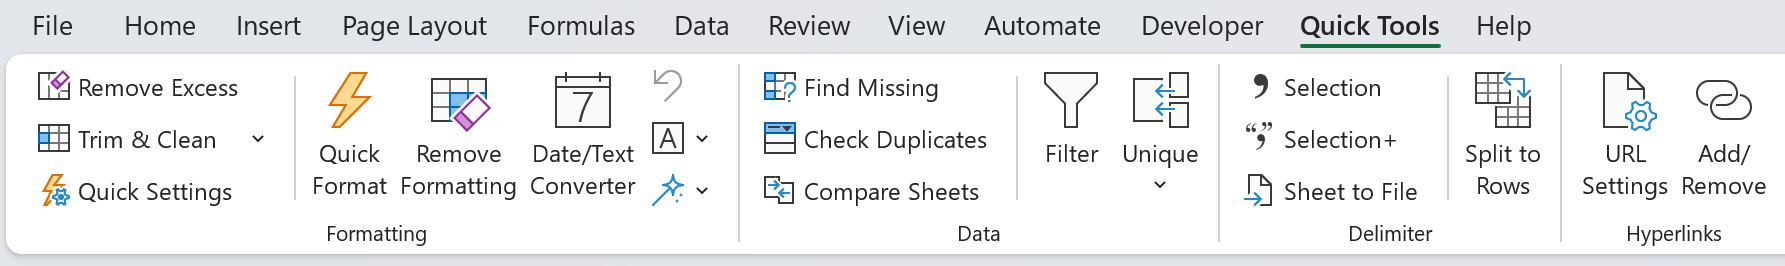
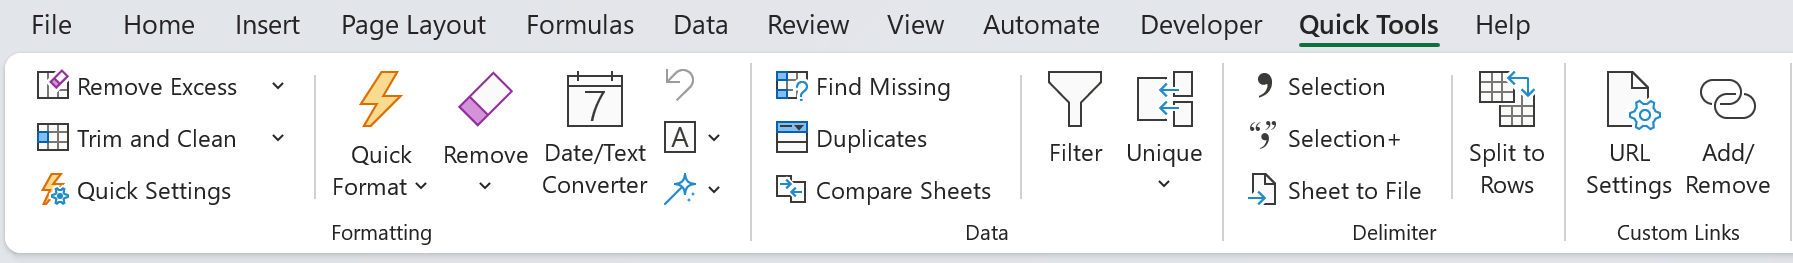
Clear Selection for Unique and Split to Rows. Update to MainIcons.png

diff --git a/XLQuickTools/Ribbon1.Designer.cs b/XLQuickTools/Ribbon1.Designer.cs
@@ -36,12 +36,6 @@
         {
             this.XLQuickTools_Tab = this.Factory.CreateRibbonTab();
             this.Group_Formatting = this.Factory.CreateRibbonGroup();
-            this.Separator_Formatting = this.Factory.CreateRibbonSeparator();
-            this.Group_Data = this.Factory.CreateRibbonGroup();
-            this.Separator_Data = this.Factory.CreateRibbonSeparator();
-            this.Group_Delimiter = this.Factory.CreateRibbonGroup();
-            this.Separator_Delimiter = this.Factory.CreateRibbonSeparator();
-            this.Group_Hyperlinks = this.Factory.CreateRibbonGroup();
             this.BtnRemoveExcess = this.Factory.CreateRibbonSplitButton();
             this.BtnRemoveExcessWS = this.Factory.CreateRibbonButton();
             this.BtnRemoveExcessWB = this.Factory.CreateRibbonButton();
@@ -50,6 +44,7 @@
             this.BtnTrimCleanWorksheet = this.Factory.CreateRibbonButton();
             this.BtnTrimCleanWorkbook = this.Factory.CreateRibbonButton();
             this.BtnQuickSettings = this.Factory.CreateRibbonButton();
+            this.Separator_Formatting = this.Factory.CreateRibbonSeparator();
             this.BtnQuickFormat = this.Factory.CreateRibbonSplitButton();
             this.BtnQuickFormatSub = this.Factory.CreateRibbonButton();
             this.BtnQuickFormatAll = this.Factory.CreateRibbonButton();
@@ -77,18 +72,23 @@
             this.BtnCopyFormatting = this.Factory.CreateRibbonButton();
             this.BtnDisplayLength = this.Factory.CreateRibbonButton();
             this.BtnResetColumn = this.Factory.CreateRibbonButton();
+            this.Group_Data = this.Factory.CreateRibbonGroup();
             this.BtnMissing = this.Factory.CreateRibbonButton();
             this.BtnDuplicates = this.Factory.CreateRibbonButton();
             this.BtnCompare = this.Factory.CreateRibbonButton();
+            this.Separator_Data = this.Factory.CreateRibbonSeparator();
             this.BtnFilter = this.Factory.CreateRibbonButton();
             this.UniqueMenu = this.Factory.CreateRibbonMenu();
             this.BtnUniqueCount = this.Factory.CreateRibbonButton();
             this.BtnUniqueClipboard = this.Factory.CreateRibbonButton();
             this.BtnCopyToSheets = this.Factory.CreateRibbonButton();
+            this.Group_Delimiter = this.Factory.CreateRibbonGroup();
             this.BtnCommaSelection = this.Factory.CreateRibbonButton();
             this.BtnDelimSelection = this.Factory.CreateRibbonButton();
             this.BtnSheetToFile = this.Factory.CreateRibbonButton();
+            this.Separator_Delimiter = this.Factory.CreateRibbonSeparator();
             this.BtnSplitToRows = this.Factory.CreateRibbonButton();
+            this.Group_Hyperlinks = this.Factory.CreateRibbonGroup();
             this.BtnHyperlinkSettings = this.Factory.CreateRibbonButton();
             this.BtnHyperlinks = this.Factory.CreateRibbonButton();
             this.XLQuickTools_Tab.SuspendLayout();
@@ -122,46 +122,6 @@
             this.Group_Formatting.Items.Add(this.AdditionalMenu);
             this.Group_Formatting.Label = "Formatting";
             this.Group_Formatting.Name = "Group_Formatting";
-            // 
-            // Separator_Formatting
-            // 
-            this.Separator_Formatting.Name = "Separator_Formatting";
-            // 
-            // Group_Data
-            // 
-            this.Group_Data.Items.Add(this.BtnMissing);
-            this.Group_Data.Items.Add(this.BtnDuplicates);
-            this.Group_Data.Items.Add(this.BtnCompare);
-            this.Group_Data.Items.Add(this.Separator_Data);
-            this.Group_Data.Items.Add(this.BtnFilter);
-            this.Group_Data.Items.Add(this.UniqueMenu);
-            this.Group_Data.Label = "Data";
-            this.Group_Data.Name = "Group_Data";
-            // 
-            // Separator_Data
-            // 
-            this.Separator_Data.Name = "Separator_Data";
-            // 
-            // Group_Delimiter
-            // 
-            this.Group_Delimiter.Items.Add(this.BtnCommaSelection);
-            this.Group_Delimiter.Items.Add(this.BtnDelimSelection);
-            this.Group_Delimiter.Items.Add(this.BtnSheetToFile);
-            this.Group_Delimiter.Items.Add(this.Separator_Delimiter);
-            this.Group_Delimiter.Items.Add(this.BtnSplitToRows);
-            this.Group_Delimiter.Label = "Delimiter";
-            this.Group_Delimiter.Name = "Group_Delimiter";
-            // 
-            // Separator_Delimiter
-            // 
-            this.Separator_Delimiter.Name = "Separator_Delimiter";
-            // 
-            // Group_Hyperlinks
-            // 
-            this.Group_Hyperlinks.Items.Add(this.BtnHyperlinkSettings);
-            this.Group_Hyperlinks.Items.Add(this.BtnHyperlinks);
-            this.Group_Hyperlinks.Label = "Custom Links";
-            this.Group_Hyperlinks.Name = "Group_Hyperlinks";
             // 
             // BtnRemoveExcess
             // 
@@ -240,6 +200,10 @@
             this.BtnQuickSettings.SuperTip = "Quick Format Settings\n\nSettings you want applied when using the \"Quick Format\" bu" +
     "tton.";
             this.BtnQuickSettings.Click += new Microsoft.Office.Tools.Ribbon.RibbonControlEventHandler(this.BtnQuickSettings_Click);
+            // 
+            // Separator_Formatting
+            // 
+            this.Separator_Formatting.Name = "Separator_Formatting";
             // 
             // BtnQuickFormat
             // 
@@ -510,6 +474,17 @@
             this.BtnResetColumn.SuperTip = "Reset the selected column. Numbers stored as text will be converted to numbers.";
             this.BtnResetColumn.Click += new Microsoft.Office.Tools.Ribbon.RibbonControlEventHandler(this.BtnResetColumn_Click);
             // 
+            // Group_Data
+            // 
+            this.Group_Data.Items.Add(this.BtnMissing);
+            this.Group_Data.Items.Add(this.BtnDuplicates);
+            this.Group_Data.Items.Add(this.BtnCompare);
+            this.Group_Data.Items.Add(this.Separator_Data);
+            this.Group_Data.Items.Add(this.BtnFilter);
+            this.Group_Data.Items.Add(this.UniqueMenu);
+            this.Group_Data.Label = "Data";
+            this.Group_Data.Name = "Group_Data";
+            // 
             // BtnMissing
             // 
             this.BtnMissing.Label = "Find Missing";
@@ -522,7 +497,7 @@
             // 
             // BtnDuplicates
             // 
-            this.BtnDuplicates.Label = "Check Duplicates";
+            this.BtnDuplicates.Label = "Duplicates";
             this.BtnDuplicates.Name = "BtnDuplicates";
             this.BtnDuplicates.OfficeImageId = "PivotPlusMinusFieldHeadersShowHide";
             this.BtnDuplicates.ShowImage = true;
@@ -538,6 +513,10 @@
             this.BtnCompare.ShowImage = true;
             this.BtnCompare.SuperTip = "Compare Worksheets\n\nToggle on/off the task pane to compare two worksheets.";
             this.BtnCompare.Click += new Microsoft.Office.Tools.Ribbon.RibbonControlEventHandler(this.BtnCompare_Click);
+            // 
+            // Separator_Data
+            // 
+            this.Separator_Data.Name = "Separator_Data";
             // 
             // BtnFilter
             // 
@@ -589,6 +568,16 @@
     "e.";
             this.BtnCopyToSheets.Click += new Microsoft.Office.Tools.Ribbon.RibbonControlEventHandler(this.BtnCopyToSheets_Click);
             // 
+            // Group_Delimiter
+            // 
+            this.Group_Delimiter.Items.Add(this.BtnCommaSelection);
+            this.Group_Delimiter.Items.Add(this.BtnDelimSelection);
+            this.Group_Delimiter.Items.Add(this.BtnSheetToFile);
+            this.Group_Delimiter.Items.Add(this.Separator_Delimiter);
+            this.Group_Delimiter.Items.Add(this.BtnSplitToRows);
+            this.Group_Delimiter.Label = "Delimiter";
+            this.Group_Delimiter.Name = "Group_Delimiter";
+            // 
             // BtnCommaSelection
             // 
             this.BtnCommaSelection.Label = "Selection";
@@ -617,6 +606,10 @@
             this.BtnSheetToFile.SuperTip = "Worksheet to File\n\nCreate a delimited file using the current active worksheet.";
             this.BtnSheetToFile.Click += new Microsoft.Office.Tools.Ribbon.RibbonControlEventHandler(this.BtnSheetToFile_Click);
             // 
+            // Separator_Delimiter
+            // 
+            this.Separator_Delimiter.Name = "Separator_Delimiter";
+            // 
             // BtnSplitToRows
             // 
             this.BtnSplitToRows.ControlSize = Microsoft.Office.Core.RibbonControlSize.RibbonControlSizeLarge;
@@ -626,6 +619,13 @@
             this.BtnSplitToRows.ShowImage = true;
             this.BtnSplitToRows.SuperTip = "Split Columns to Rows\n\nSplit delimited column(s) to rows.";
             this.BtnSplitToRows.Click += new Microsoft.Office.Tools.Ribbon.RibbonControlEventHandler(this.BtnSplitToRows_Click);
+            // 
+            // Group_Hyperlinks
+            // 
+            this.Group_Hyperlinks.Items.Add(this.BtnHyperlinkSettings);
+            this.Group_Hyperlinks.Items.Add(this.BtnHyperlinks);
+            this.Group_Hyperlinks.Label = "Custom Links";
+            this.Group_Hyperlinks.Name = "Group_Hyperlinks";
             // 
             // BtnHyperlinkSettings
             // 

diff --git a/XLQuickTools/Form_Unique.cs b/XLQuickTools/Form_Unique.cs
@@ -187,6 +187,11 @@ namespace XLQuickTools
         // Cancel button
         private void UniqueForm_Cancel_Click(object sender, EventArgs e)
         {
+            Excel.Application excelApp = Globals.ThisAddIn.Application;
+            Excel.Worksheet activeSheet = excelApp.ActiveSheet;
+            // Select cell A1 to clear selection
+            activeSheet.Range["A1"].Select();
+            // Close
             this.Close();
         }
 

diff --git a/XLQuickTools/Form_SplitToRows.cs b/XLQuickTools/Form_SplitToRows.cs
@@ -238,6 +238,8 @@ namespace XLQuickTools
         // Cancel button
         private void SplitterForm_Cancel_Click(object sender, EventArgs e)
         {
+            // Select cell A1 to clear selection
+            _activeSheet.Range["A1"].Select();
             this.Close();
         }
 
